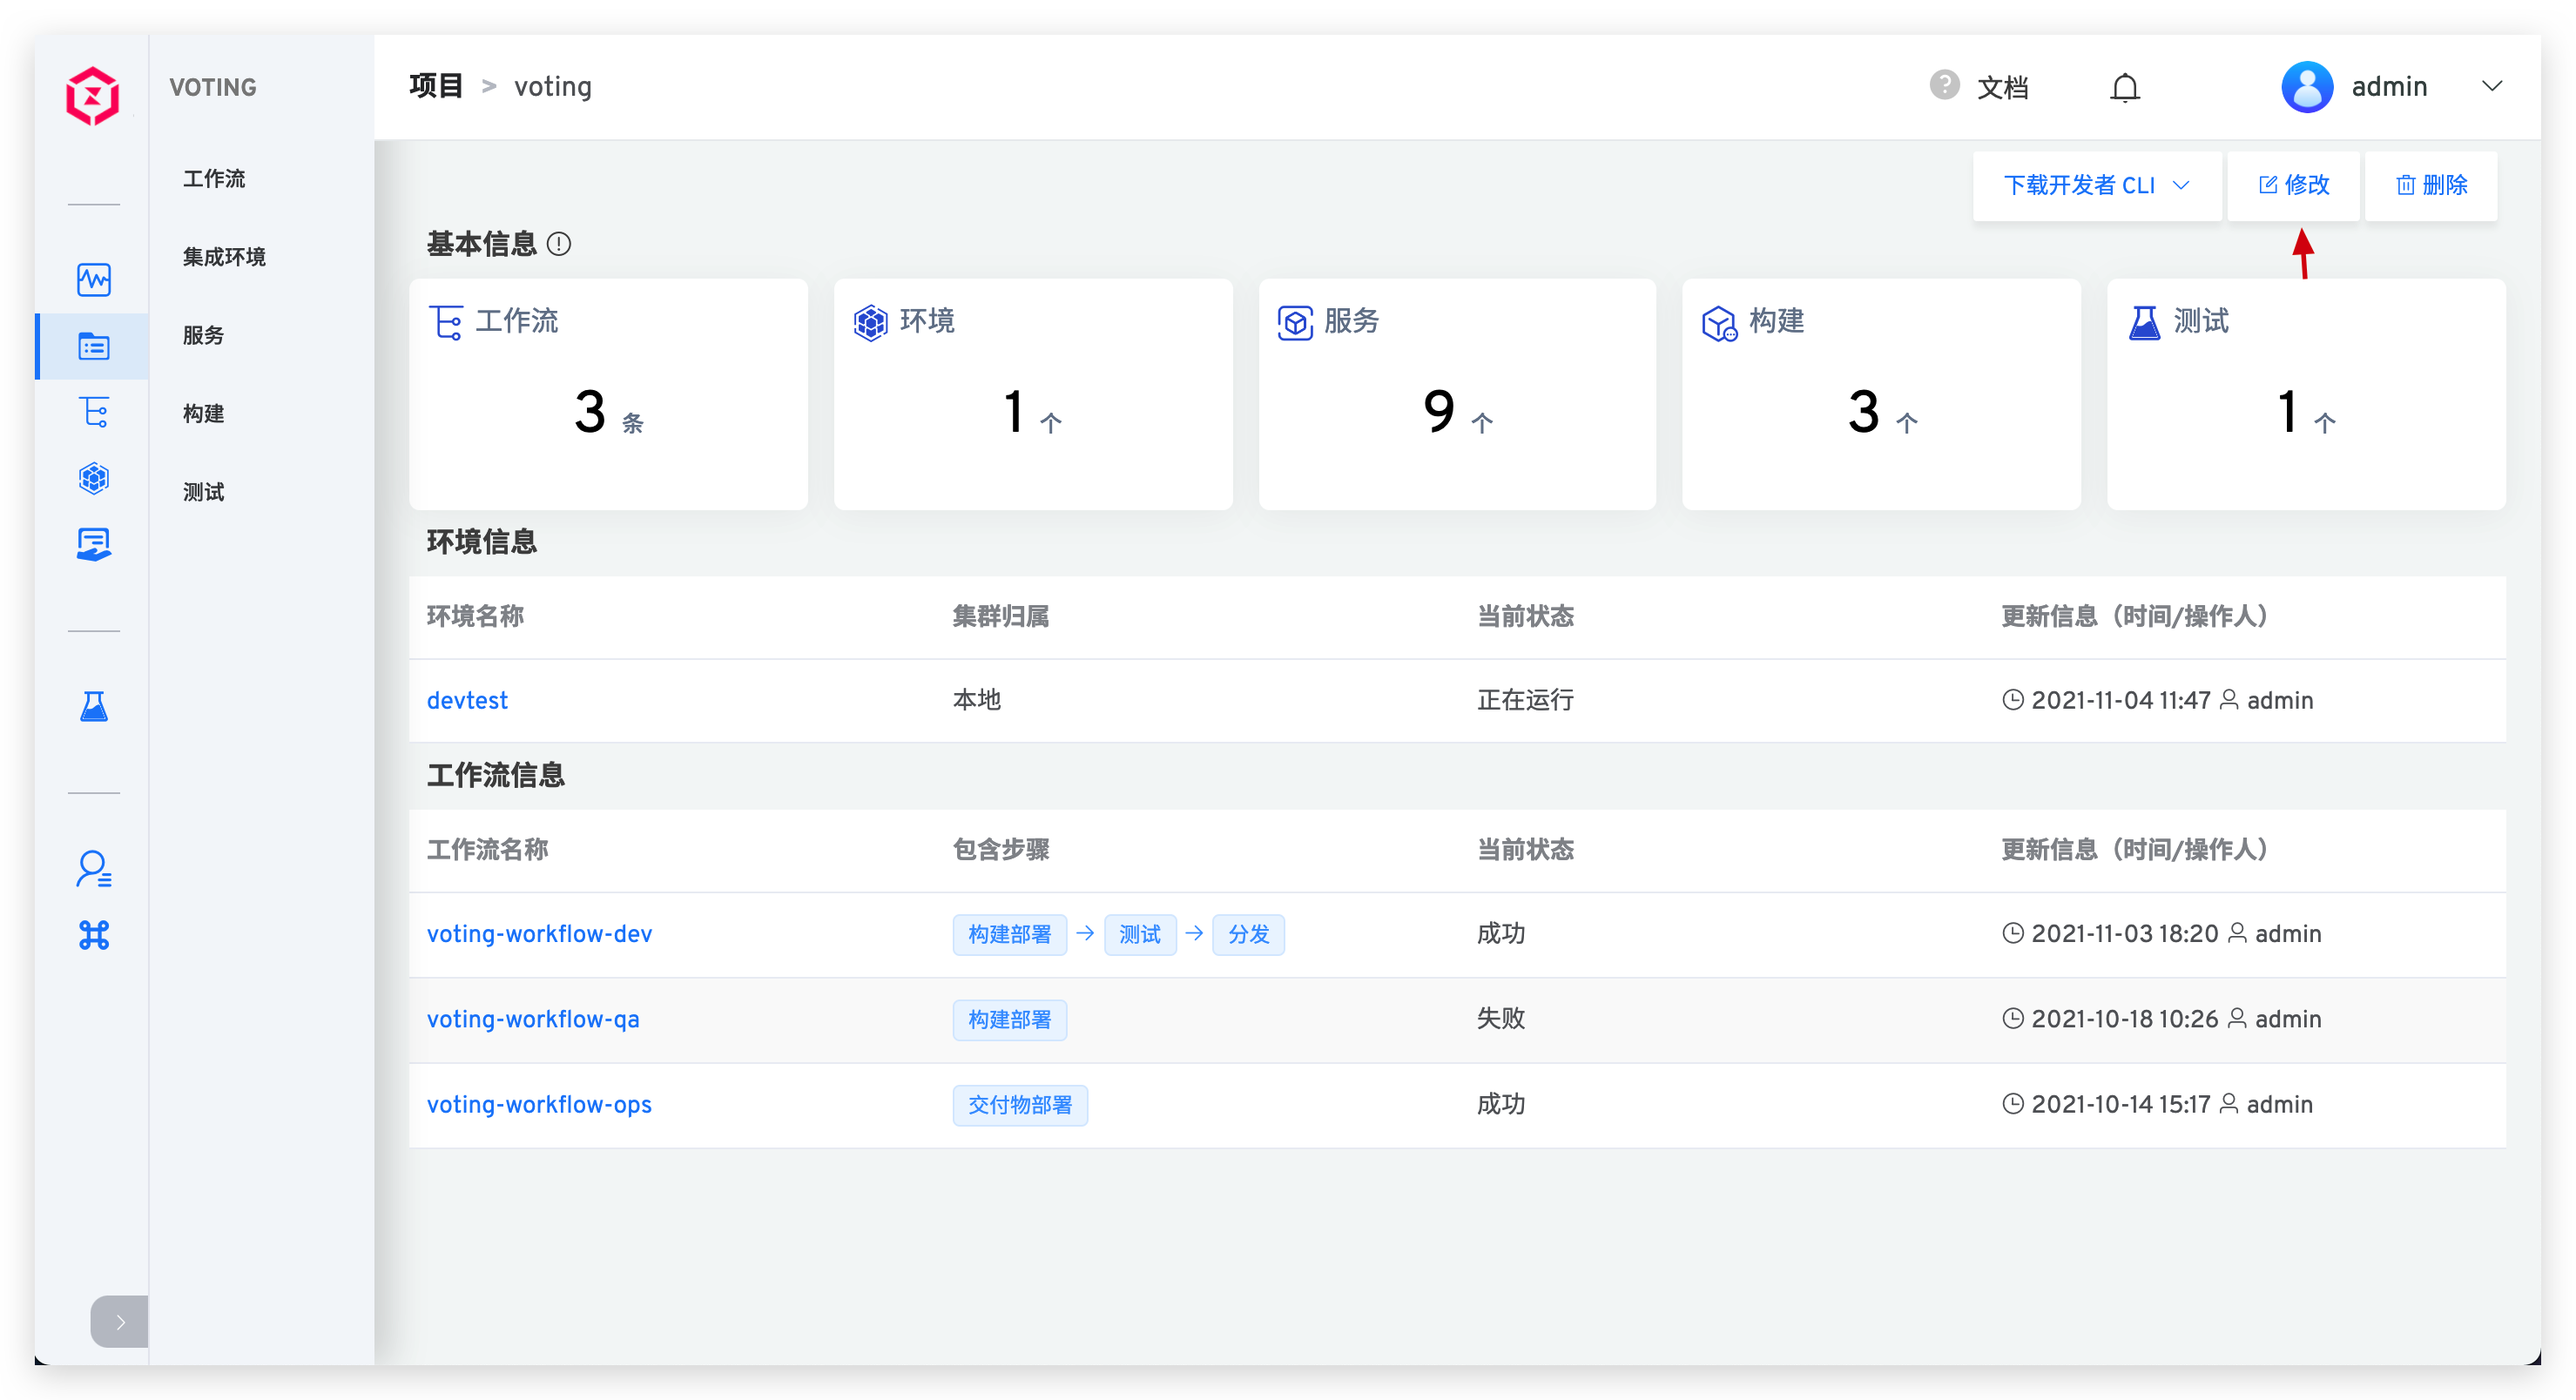
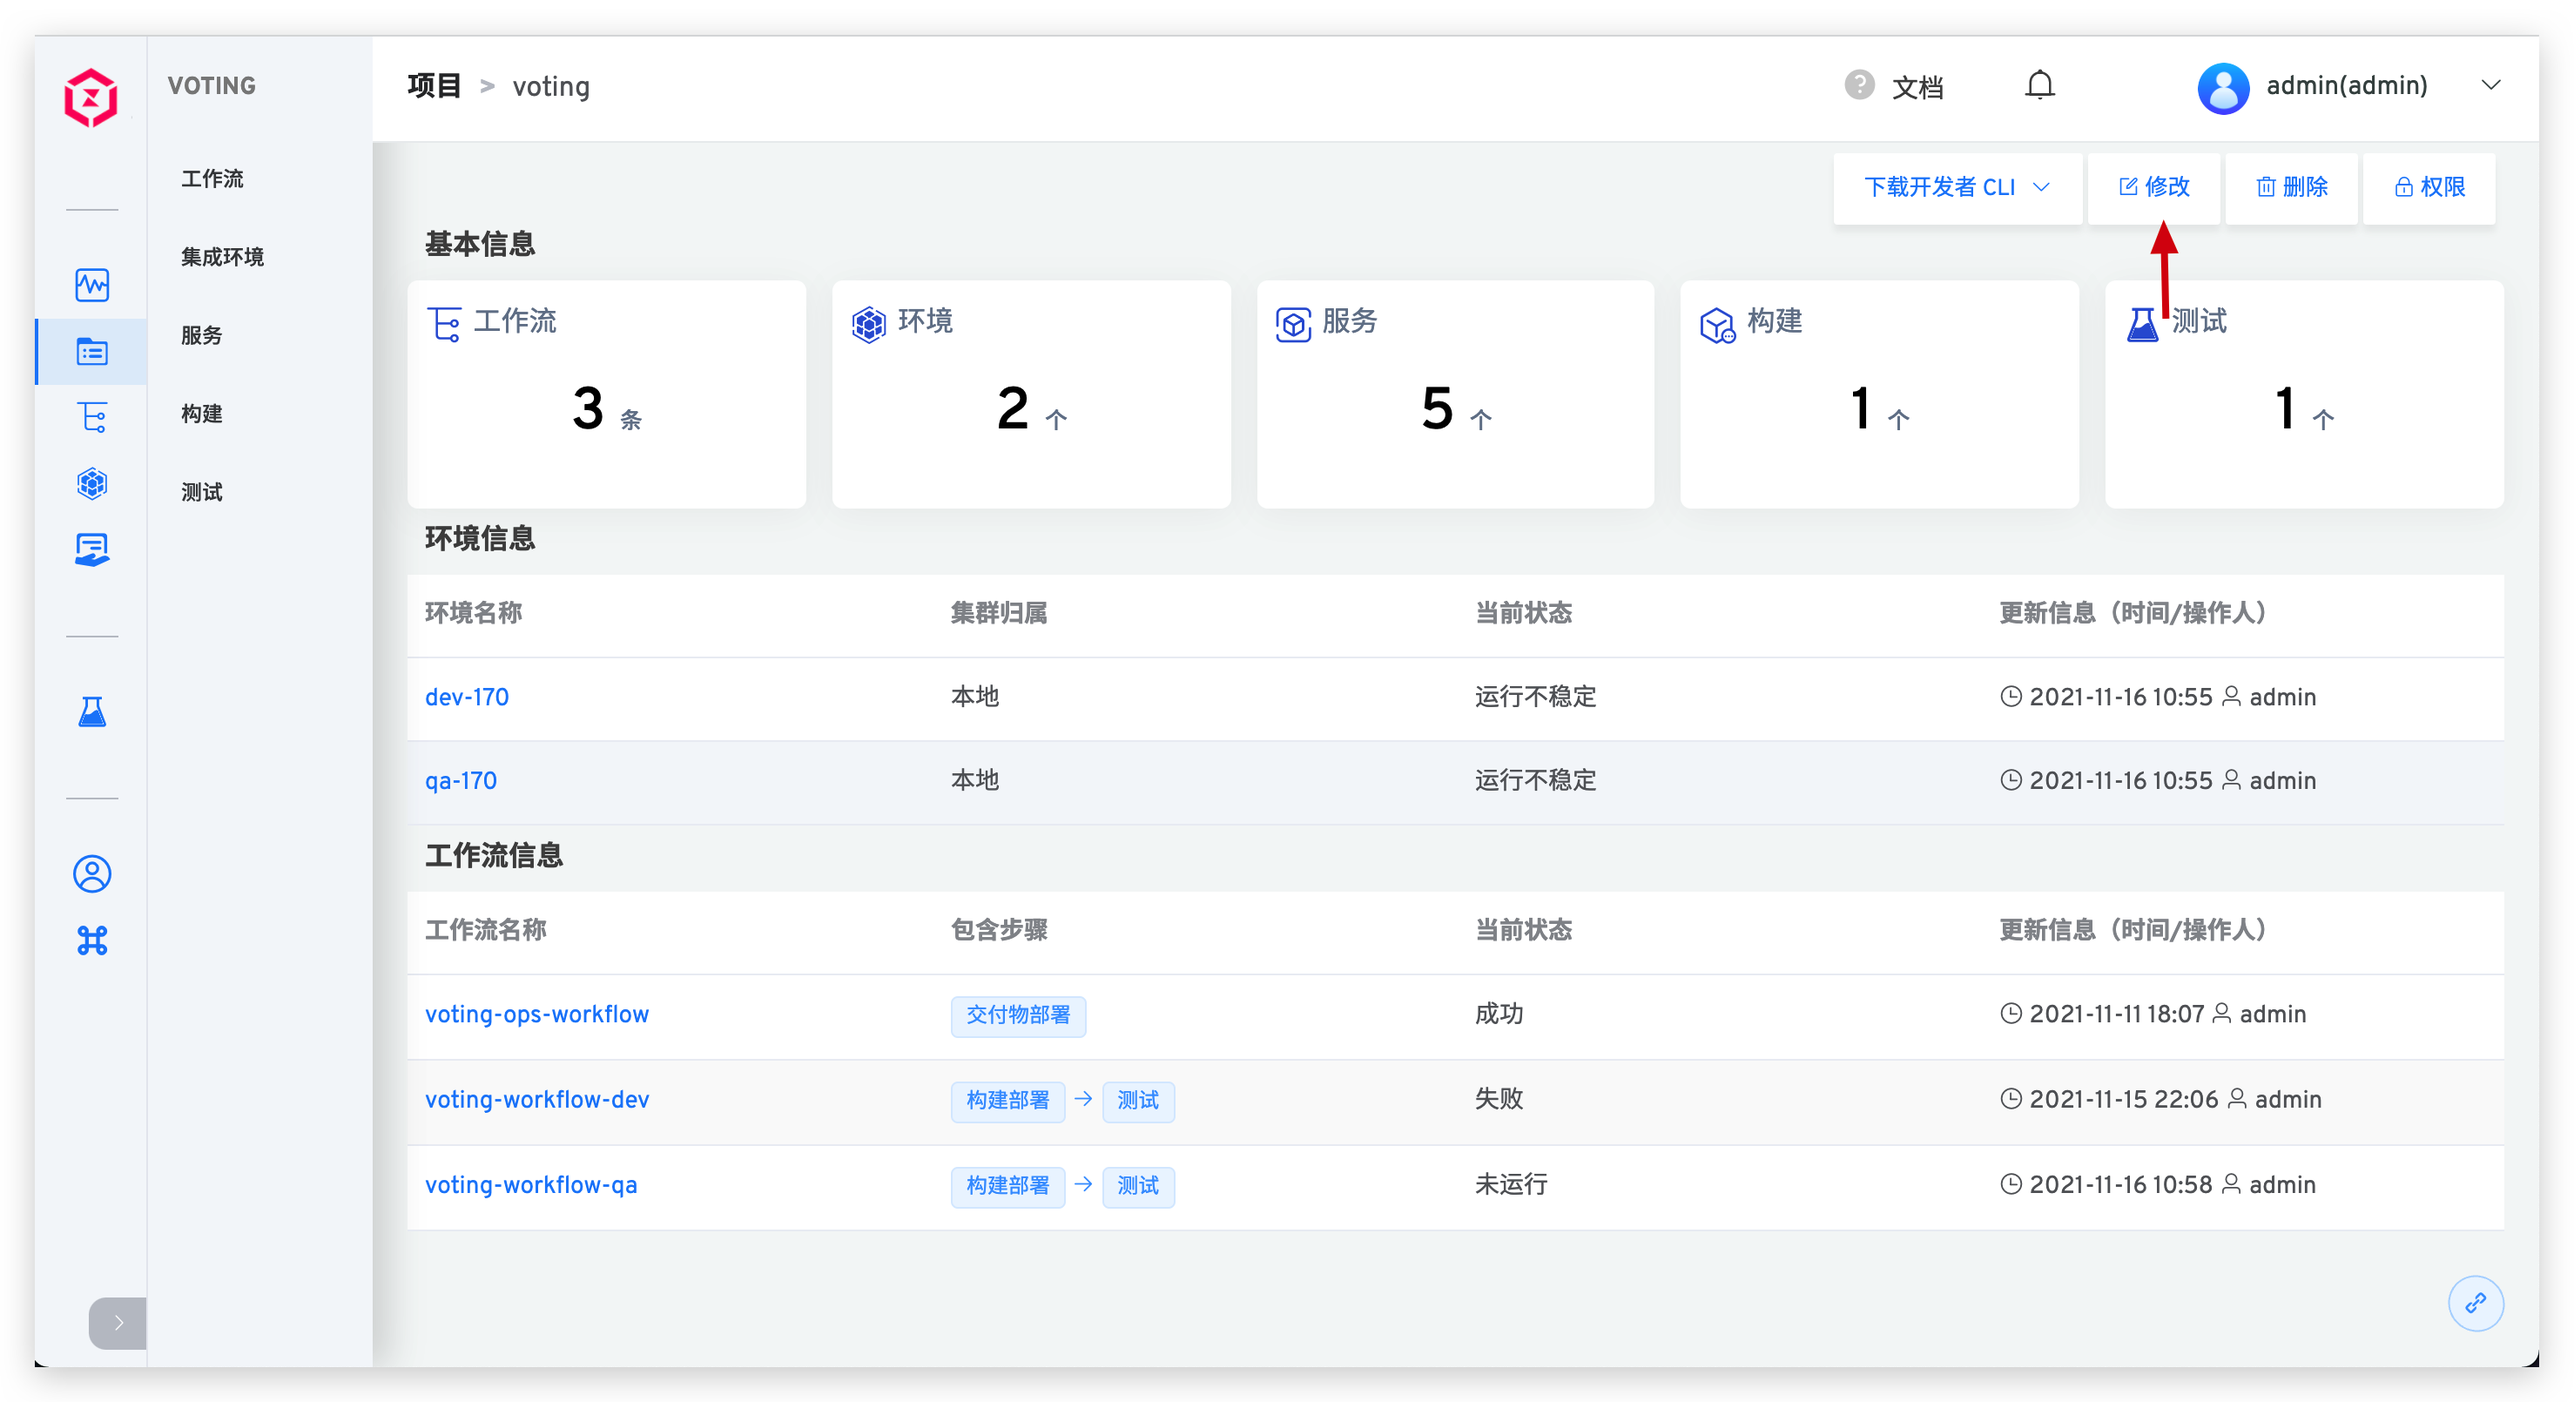
project config + permission config

diff --git a/zh_cn/04.项目/01.project_config.md b/zh_cn/04.项目/01.project_config.md
@@ -1,8 +1,12 @@
 ---
 title: 项目配置
 date: 2021-11-02 22:17:07
-permalink: /pages/config/
+permalink: /project/config/
 ---
+
+::: tip 前提
+只有系统管理员以及项目管理员才能修改项目的信息，删除项目，对项目的成员以及权限进行配置和管理。
+:::
 
 ## 修改项目信息
 
@@ -12,10 +16,17 @@ permalink: /pages/config/
 
 ### 基本信息
 
-- `项目名称`：该项目的名称，可修改，不允许存在同名的项目。
-- `项目主键`：创建项目时可指定，默认值为项目名称，一旦项目创建后，项目主键不可再更改。
+- `项目名称`：该项目的名称。项目创建后可修改。
+- `项目主键`：创建项目时可指定，默认值为项目名称。项目创建后，其主键不可再更改。
+- `项目权限`：可选`公开`或`私有`，定义该项目的默认权限。
 - `描述信息`：对该项目的简要描述，非必填。
-- `项目管理员`：该项目的管理员，可配置多个用户。
+
+::: tip 关于权限的扩展阅读
+1. 私有项目：用户默认无权限，项目中的工作流、集成环境、服务、构建、测试等资源均无法操作。
+2. 公开项目：用户默认享有 `read-only` 角色中的权限，可查看项目中的工作流、集成环境、服务、构建、测试等资源。
+
+`read-only` 角色及权限管理细节请阅[项目权限管理](/project/config/#权限管理)。
+:::
 
 ![查看项目基本信息](./_images/project_basic_info.png)
 
@@ -29,4 +40,22 @@ permalink: /pages/config/
 ![查看项目基本信息](./_images/project_advanced_config.png)
 
 ## 权限管理
-Coming soon，敬请期待...
+
+进入项目详情页，点击`权限`按钮进入项目的权限和成员配置页面。
+
+![进入项目权限配置](./_images/show_project_role_binding_config.png)
+
+### 成员管理
+
+在`成员管理`中，查看该项目的用户成员列表及对应角色，可按需对用户权限进行配置。
+
+![查看项目成员列表](./_images/project_member_list.png)
+
+### 角色管理
+
+在`角色管理`中，可对该项目中配置的角色进行查看、增加、删除、修改操作。除自定义角色外，系统还内置了以下 2 个角色：
+
+- `project-admin`：项目管理员，可操作所辖项目中的所有资源，可对项目的基本信息及配置进行修改。
+- `read-only`：只读角色，该角色只在公开项目中存在，细节如下图：
+
+![查看 read-only 权限](./_images/read_only_permission.png)
